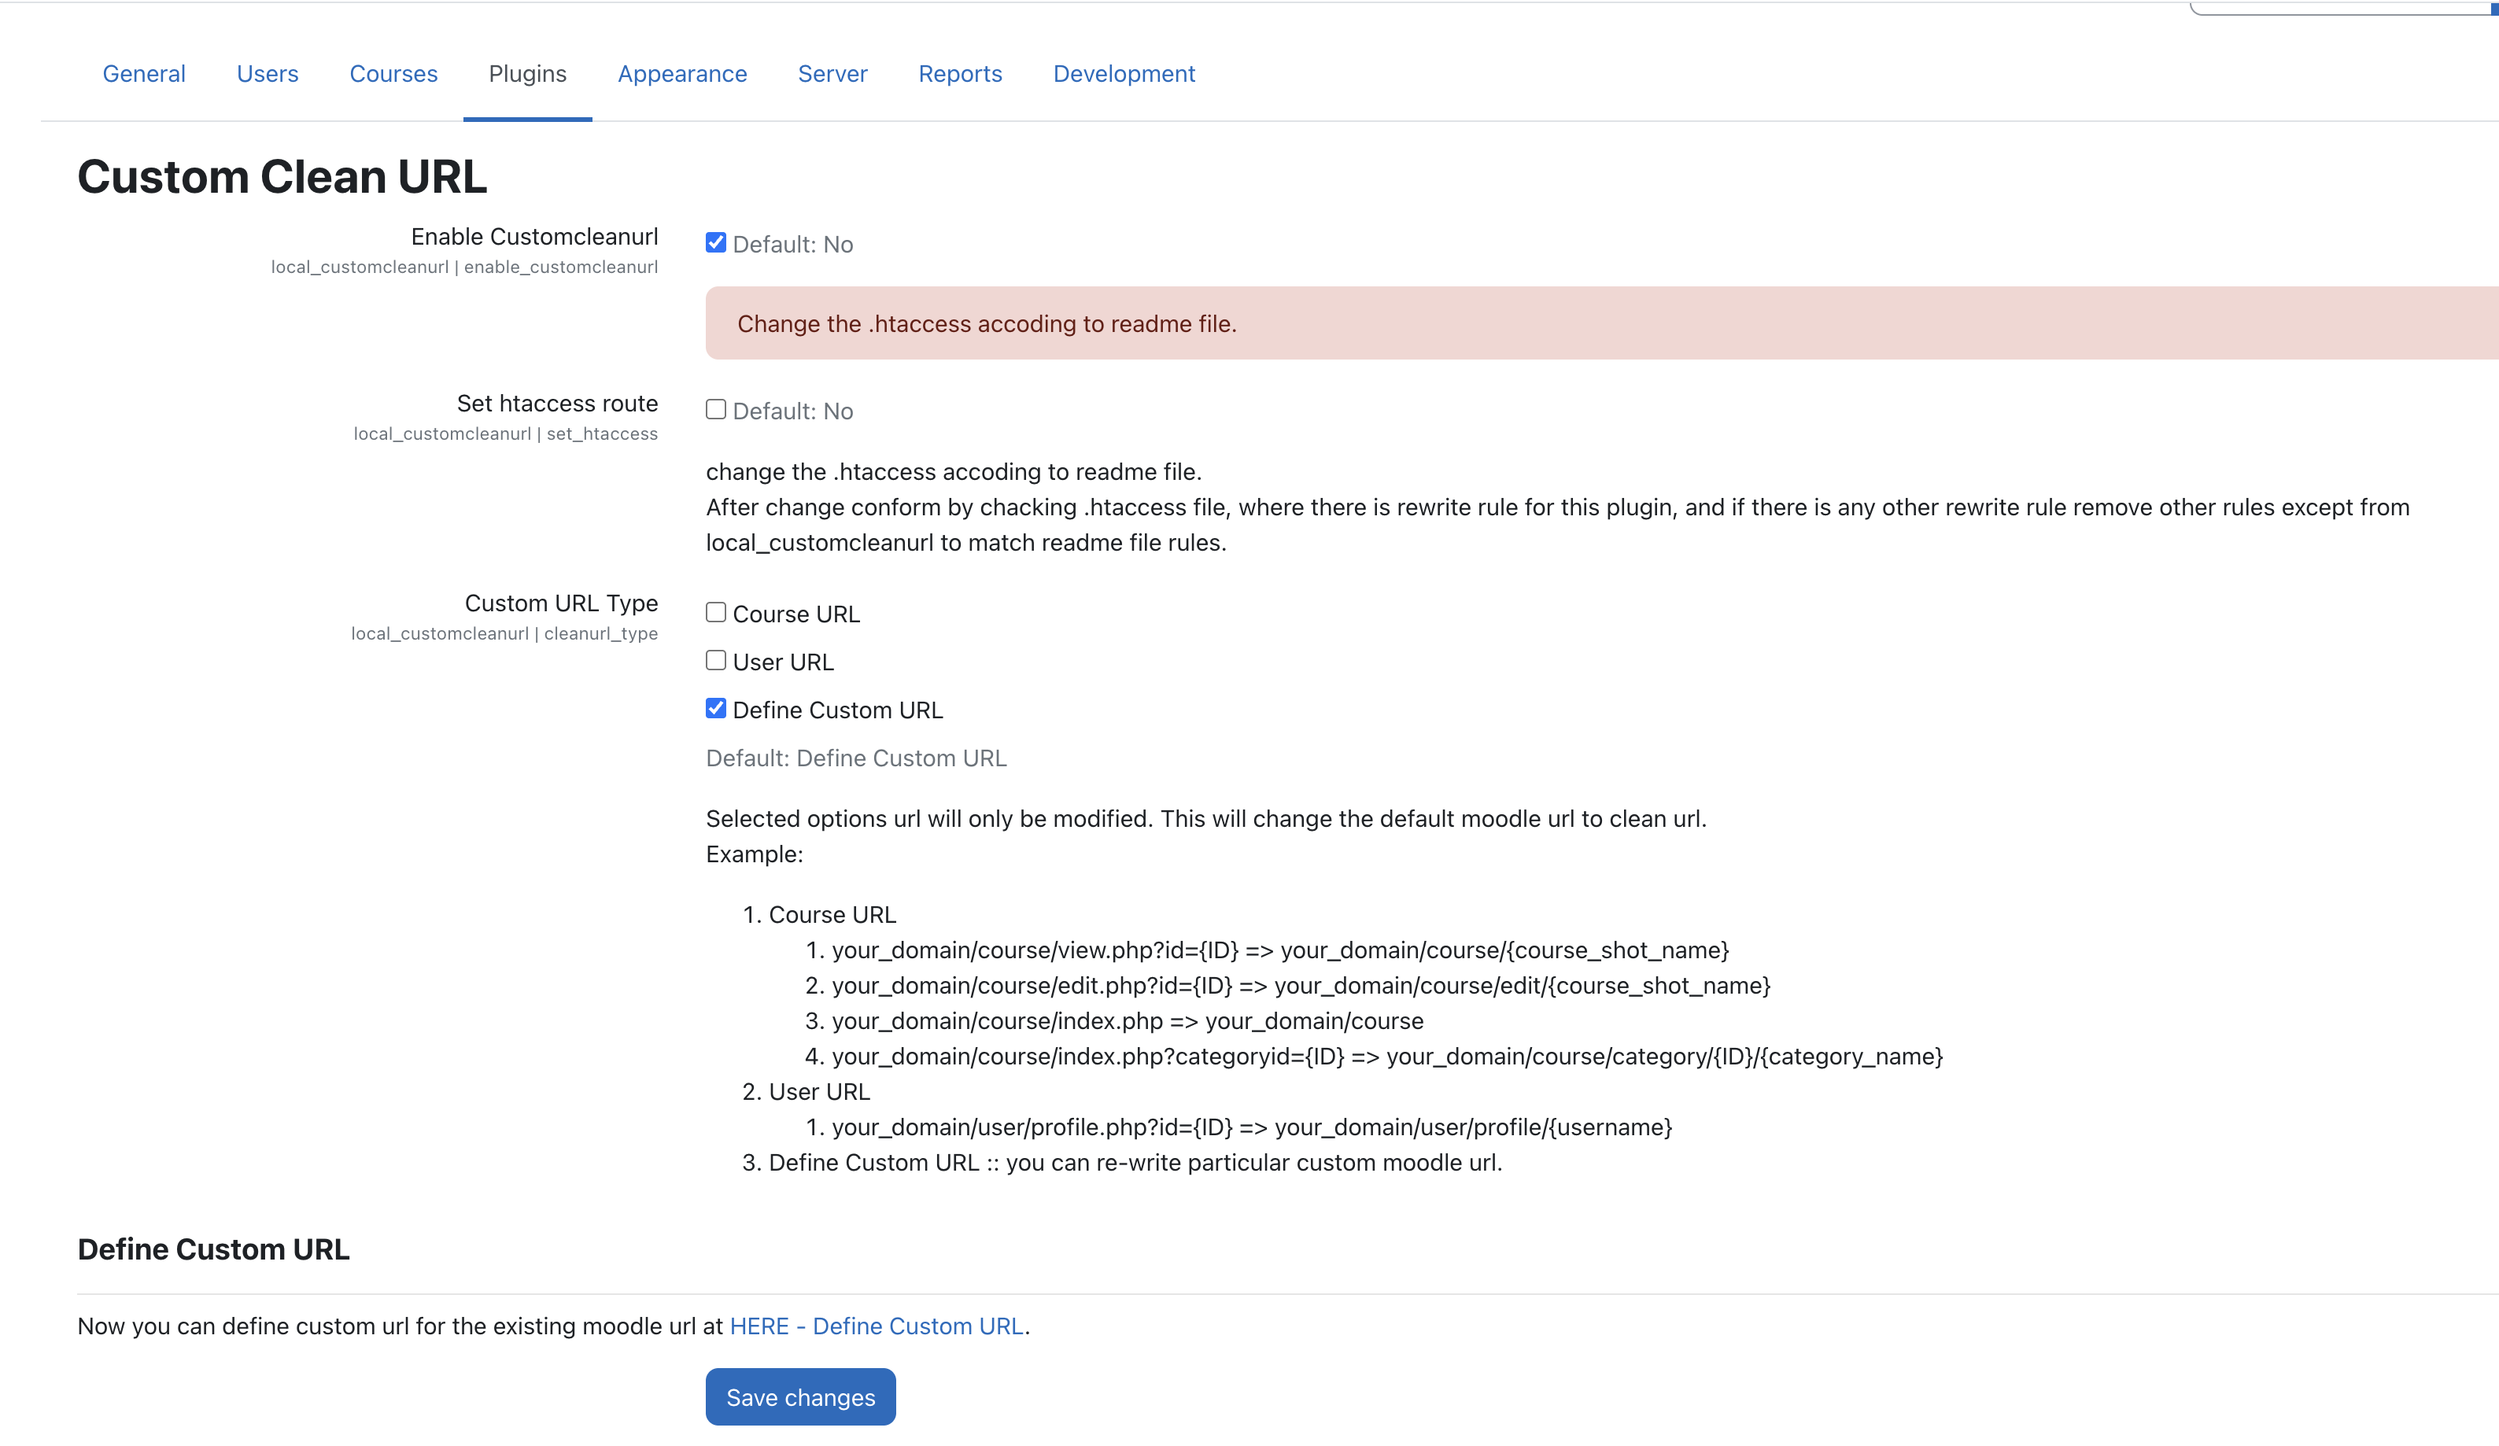
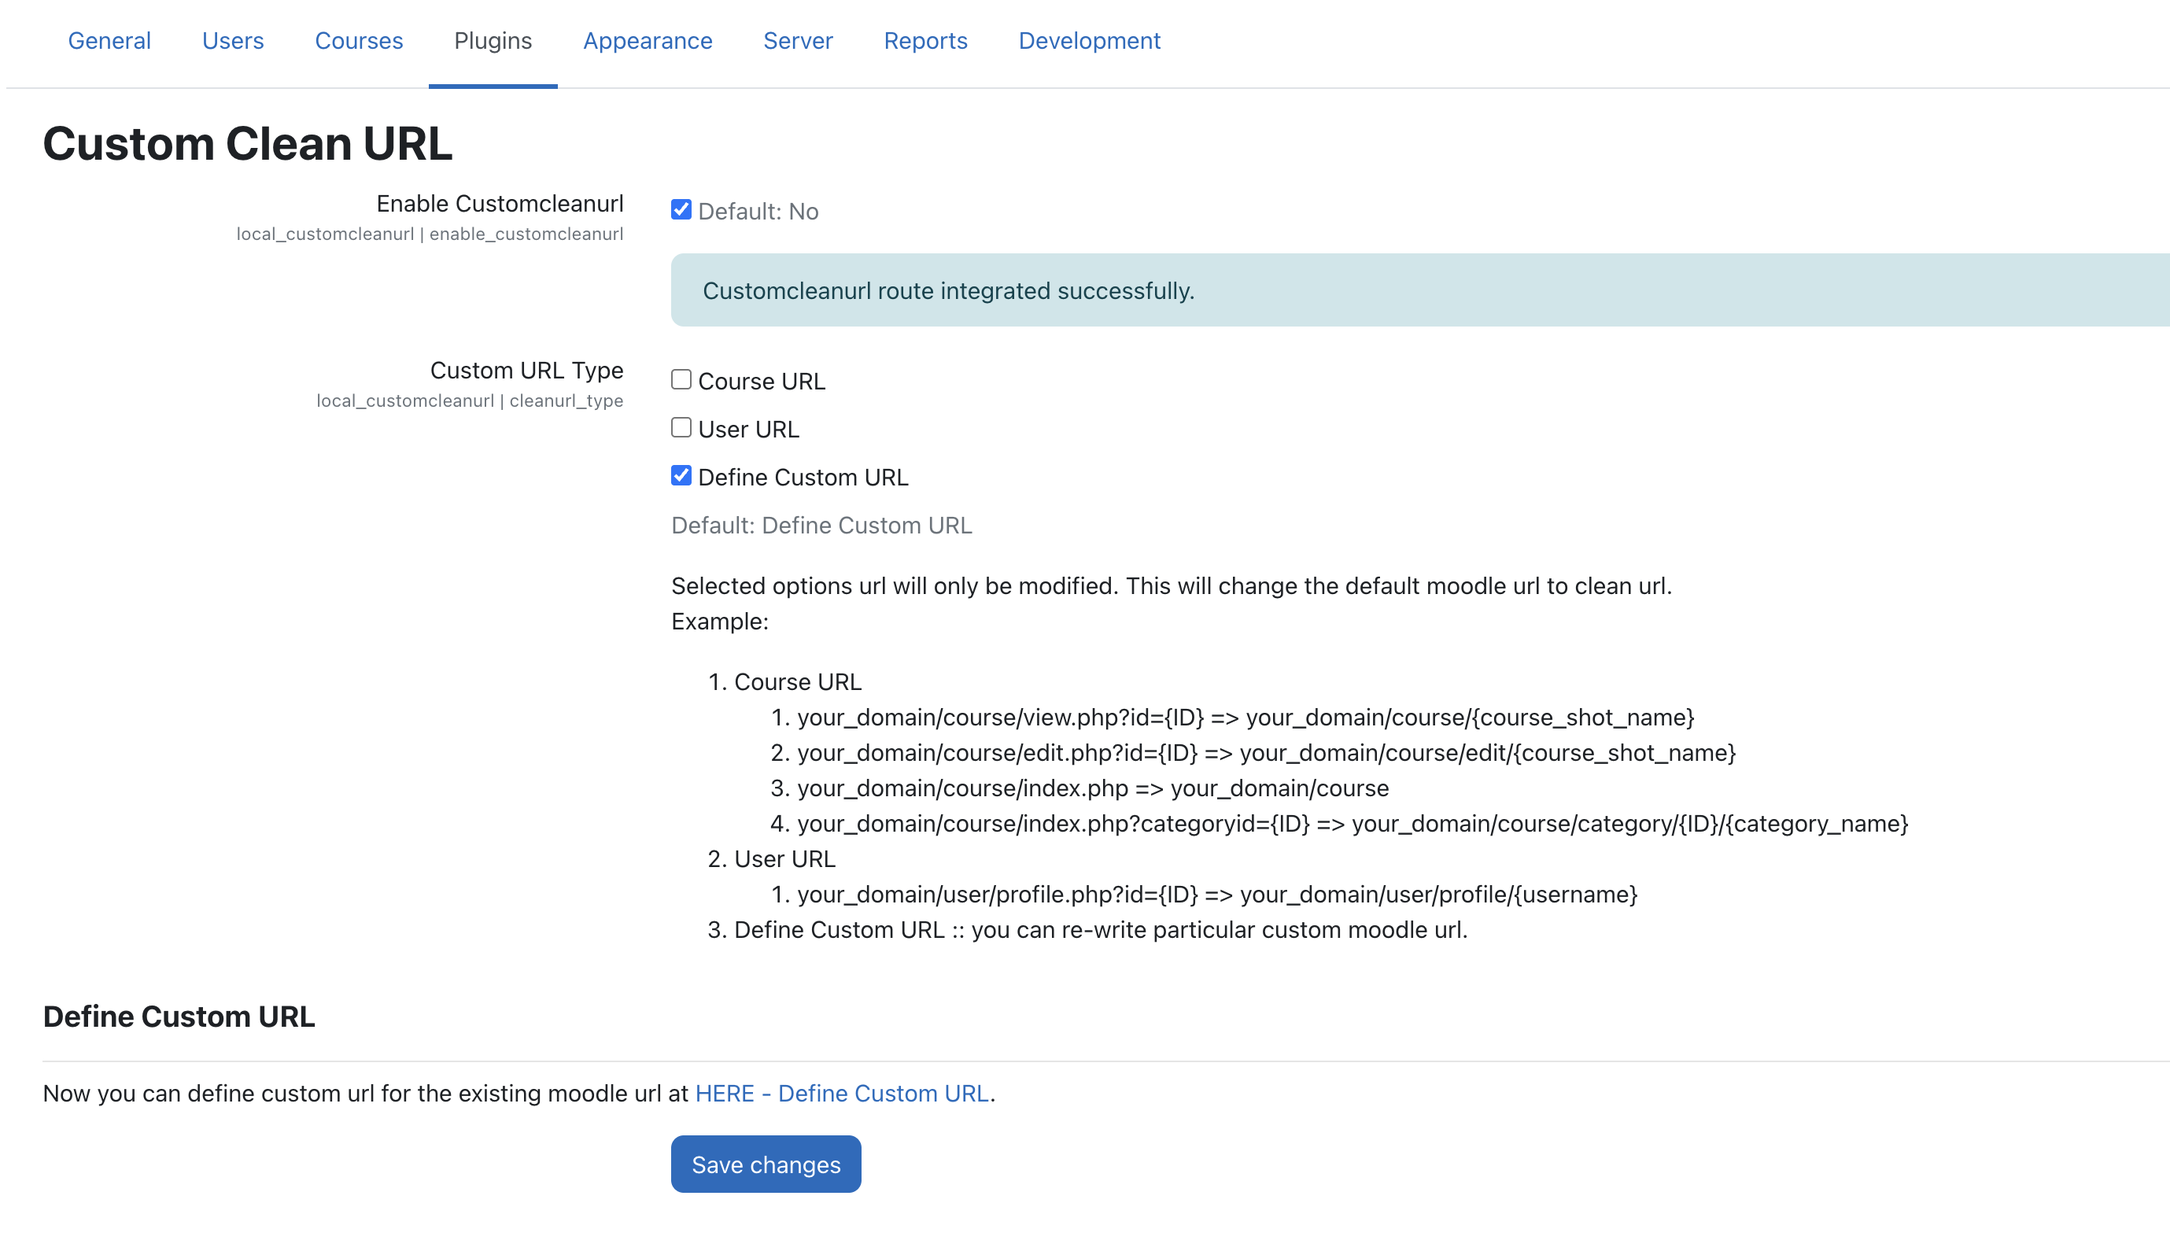
update

diff --git a/version.php b/version.php
@@ -34,7 +34,7 @@ $plugin->component = 'local_customcleanurl';
 $plugin->release = '1.0.0';
 
 // This is the version of the plugin.
-$plugin->version = 2025082600;
+$plugin->version = 2025082700;
 
 // This is a stable release.
 $plugin->maturity = MATURITY_STABLE;
